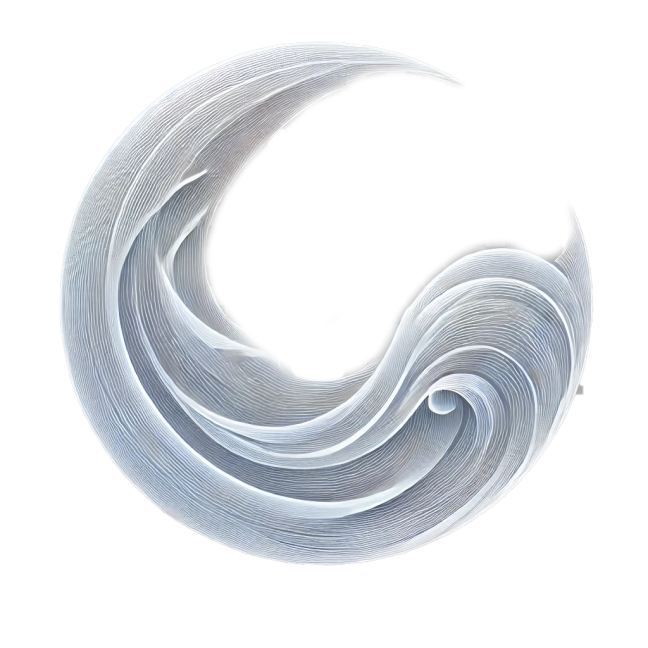
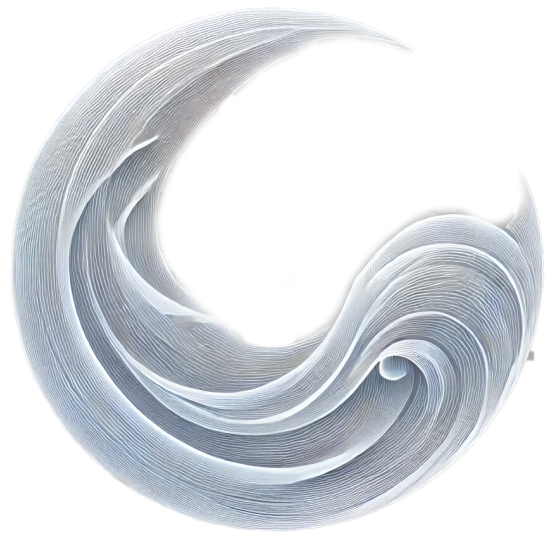
ui: add points anim

diff --git a/app/mint/page.tsx b/app/mint/page.tsx
@@ -538,7 +538,7 @@ function Timer({ getNftLeftPercentage, saleInfo, refetch }: TimerProps) {
   useEffect(() => {
     const handleMouseMove = (e: MouseEvent) => {
       const rect = perspectiveEl.current.getBoundingClientRect();
-      const x = ((e.clientX - rect.left) / rect.width - 0.5) * 20; // Ajuste l'intensité
+      const x = ((e.clientX - rect.left) / rect.width - 0.5) * 20;
       const y = ((e.clientY - rect.top) / rect.height - 0.5) * 20;
       setMouseX(x);
       setMouseY(y);
@@ -570,7 +570,7 @@ function Timer({ getNftLeftPercentage, saleInfo, refetch }: TimerProps) {
         initial={{ opacity: 0 }}
         animate={{ opacity: 0.8 }}
         transition={{ duration: 0.8 }}
-        className="absolute w-[400px] h-[400px] md:w-[450px] md:h-[450px] lg:w-[648px] lg:h-[648px] left-1/2 top-[153px] lg:top-[253px] sm:-bottom-[350px] md:-bottom-[400px] lg:-bottom-[460px] -translate-x-1/2 -translate-y-1/2 pointer-events-none mix-blend-multiply"
+        className="absolute animate-rotate w-[400px] h-[400px] md:w-[450px] md:h-[450px] lg:w-[648px] lg:h-[648px] scale-[0.8] left-1/2 top-[153px] lg:top-[253px] sm:-bottom-[350px] md:-bottom-[400px] lg:-bottom-[460px] -translate-x-1/2 -translate-y-1/2 pointer-events-none mix-blend-multiply"
         style={{
           backgroundImage: "url('/images/pre-launch-circle.png')",
           backgroundSize: "contain",
@@ -585,21 +585,21 @@ function Timer({ getNftLeftPercentage, saleInfo, refetch }: TimerProps) {
         transition={{ duration: 0.6, delay: 0.3 }}
         className="flex flex-col items-center justify-start"
         ref={perspectiveEl}
-        style={{ perspective: "500px" }}
+        style={{ perspective: "500px", transformStyle: "preserve-3d"  }}
       >
 
         <motion.div
-          className="relative w-[240px] h-[240px] sm:w-[280px] sm:h-[280px] md:w-[350px] md:h-[350px] lg:w-[400px] lg:h-[400px] mt-6 md:mt-10"
-          style={{ transformStyle: "preserve-3d" }}
+          className="group relative w-[240px] h-[240px] sm:w-[280px] sm:h-[280px] md:w-[350px] md:h-[350px] lg:w-[400px] lg:h-[400px] mt-6 md:mt-10"
           animate={{
             rotateX: mouseY,
             rotateY: -mouseX,
           }}
           whileHover={{
-            scale: 1.04, // Échelle sur hover
+            scale: 1.04,
           }}
           transition={{ type: "tween", duration: 0.4, ease: "easeOut" }}
         >
+          <div className="animate-bg group-hover:opacity-[0.05] mix-blend-overlay opacity-0 transition-opacity duration-500 absolute inset-0 w-full h-full rounded-full"></div>
         
     
           {/* Outer Circle - Timer Progress */}
@@ -609,7 +609,7 @@ function Timer({ getNftLeftPercentage, saleInfo, refetch }: TimerProps) {
             thickness={2}
             color="rgba(152, 252, 228, 1)"
             trackColor="rgba(152, 252, 228, 0.1)"
-            className="absolute -inset-6 sm:hidden"
+            className="absolute -inset-6 -translate-z-8 sm:hidden"
           />
 
           <CircularProgress
@@ -618,7 +618,7 @@ function Timer({ getNftLeftPercentage, saleInfo, refetch }: TimerProps) {
             thickness={2.5}
             color="rgba(152, 252, 228, 1)"
             trackColor="rgba(152, 252, 228, 0.1)"
-            className="absolute -inset-6 hidden sm:block md:hidden"
+            className="absolute -inset-6 -translate-z-8 hidden sm:block md:hidden"
           />
 
           <CircularProgress
@@ -627,7 +627,7 @@ function Timer({ getNftLeftPercentage, saleInfo, refetch }: TimerProps) {
             thickness={3}
             color="rgba(152, 252, 228, 1)"
             trackColor="rgba(152, 252, 228, 0.1)"
-            className="absolute -inset-6 hidden md:block lg:hidden"
+            className="absolute -inset-6 -translate-z-8 hidden md:block lg:hidden"
           />
 
           <CircularProgress
@@ -636,7 +636,7 @@ function Timer({ getNftLeftPercentage, saleInfo, refetch }: TimerProps) {
             thickness={3}
             color="rgba(152, 252, 228, 1)"
             trackColor="rgba(152, 252, 228, 0.1)"
-            className="absolute -inset-6 hidden lg:block"
+            className="absolute -inset-6 -translate-z-8 hidden lg:block"
           />
 
           {/* Inner Circle - Supply Progress */}
@@ -646,7 +646,7 @@ function Timer({ getNftLeftPercentage, saleInfo, refetch }: TimerProps) {
             thickness={4}
             color="rgba(240, 253, 250, 1)"
             trackColor="rgba(240, 253, 250, 0.1)"
-            className="absolute top-1/2 left-1/2 transform -translate-x-1/2 -translate-y-1/2 sm:hidden"
+            className="absolute top-1/2 left-1/2 translate-z-8 transform -translate-x-1/2 -translate-y-1/2 sm:hidden"
           />
           <CircularProgress
             value={getNftLeftPercentage()}
@@ -654,7 +654,7 @@ function Timer({ getNftLeftPercentage, saleInfo, refetch }: TimerProps) {
             thickness={5}
             color="rgba(240, 253, 250, 1)"
             trackColor="rgba(240, 253, 250, 0.1)"
-            className="absolute top-1/2 left-1/2 transform -translate-x-1/2 -translate-y-1/2 hidden sm:block md:hidden"
+            className="absolute top-1/2 left-1/2 translate-z-8 transform -translate-x-1/2 -translate-y-1/2 hidden sm:block md:hidden"
           />
           <CircularProgress
             value={getNftLeftPercentage()}
@@ -662,7 +662,7 @@ function Timer({ getNftLeftPercentage, saleInfo, refetch }: TimerProps) {
             thickness={5}
             color="rgba(240, 253, 250, 1)"
             trackColor="rgba(240, 253, 250, 0.1)"
-            className="absolute top-1/2 left-1/2 transform -translate-x-1/2 -translate-y-1/2 hidden md:block lg:hidden"
+            className="absolute top-1/2 left-1/2 translate-z-8 transform -translate-x-1/2 -translate-y-1/2 hidden md:block lg:hidden"
           />
           <CircularProgress
             value={getNftLeftPercentage()}
@@ -670,7 +670,7 @@ function Timer({ getNftLeftPercentage, saleInfo, refetch }: TimerProps) {
             thickness={6}
             color="rgba(240, 253, 250, 1)"
             trackColor="rgba(240, 253, 250, 0.1)"
-            className="absolute top-1/2 left-1/2 transform -translate-x-1/2 -translate-y-1/2 hidden lg:block"
+            className="absolute top-1/2 left-1/2 translate-z-8 transform -translate-x-1/2 -translate-y-1/2 hidden lg:block"
           />
 
           {/* Center Text */}

diff --git a/app/globals.css b/app/globals.css
@@ -229,7 +229,7 @@
   animation: levitation 5s ease-in-out infinite;
 }
 
-/* 
+ 
 @keyframes background-frame {
   0% {
     -webkit-background-position: 100% 0;
@@ -241,12 +241,23 @@
 }
 }
 
-.animate-bg:hover {
-  -webkit-background: url("/images/animate-bg.jpg");
-  background: url("/images/animate-bg.jpg");
-  -webkit-background-size: 5000% auto;
+.animate-bg {
+  background-color: #ffffff01;
+  background-image: url("/images/bg-animate.png");
   background-size: 5000% auto;
-  -webkit-background-position: 100% 0;
   background-position: 100% 0;
-  animation: background-frame 1.2s steps(49, end) infinite both;
-} */
+  animation: background-frame 1.6s steps(49, end) infinite both;
+}
+
+@keyframes rotate {
+  0% {
+    transform: rotate(0);
+}
+100% {
+    transform: rotate(-360deg);
+}
+}
+
+.animate-rotate {
+  animation: rotate 400s linear infinite;
+}
